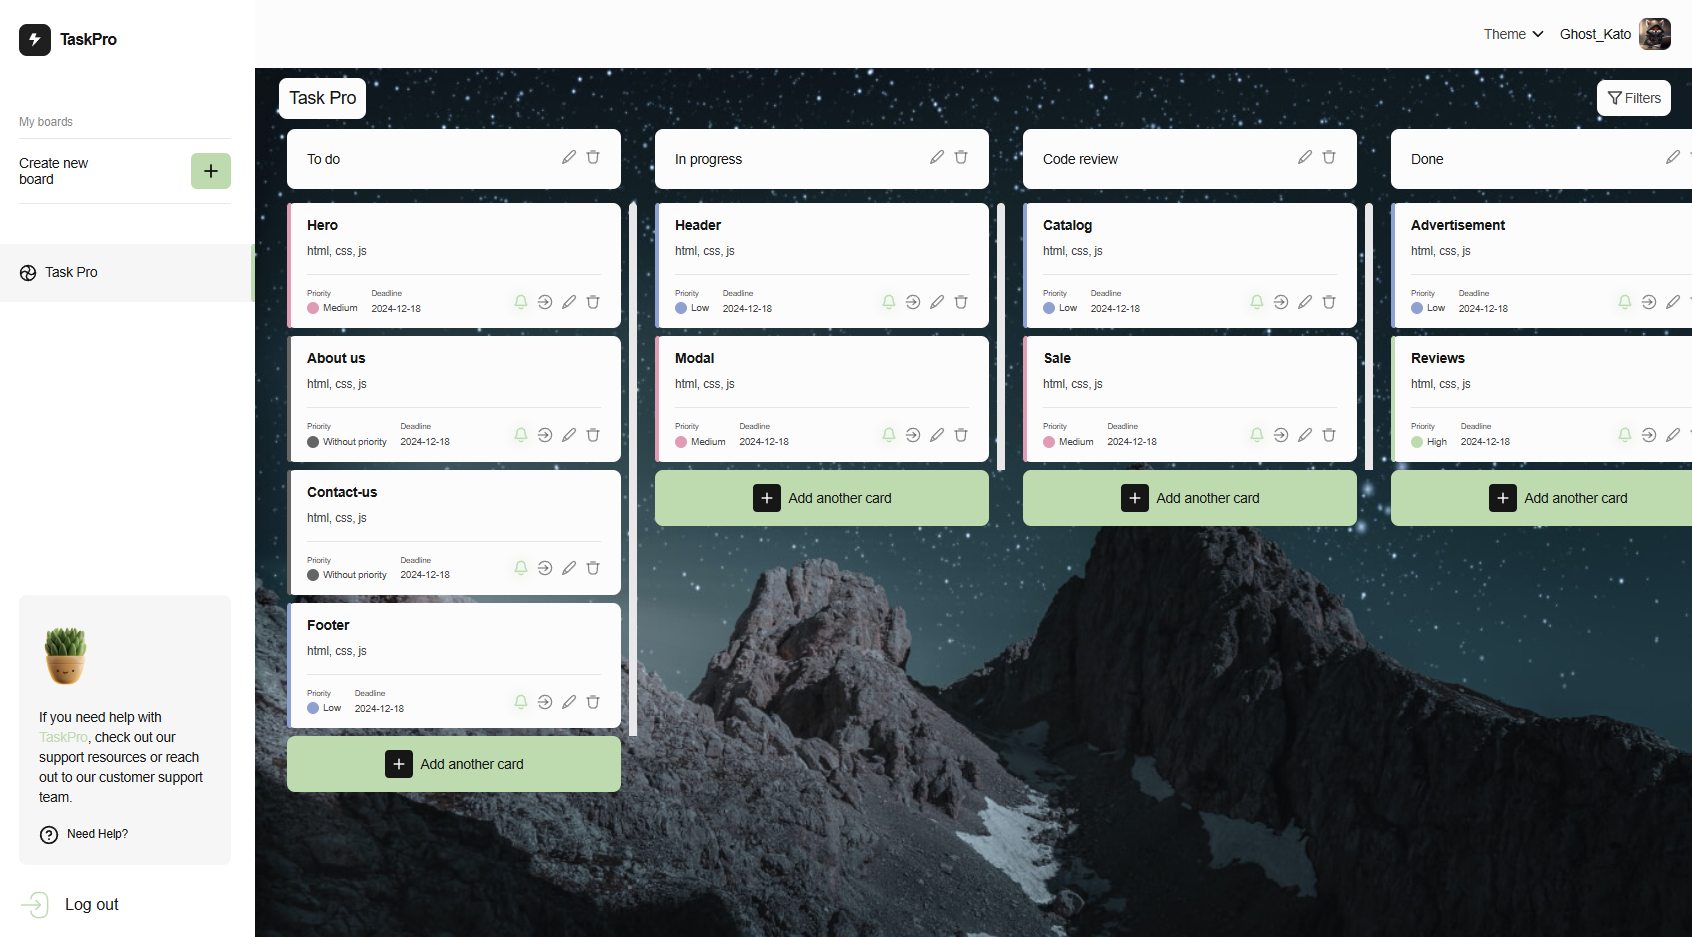
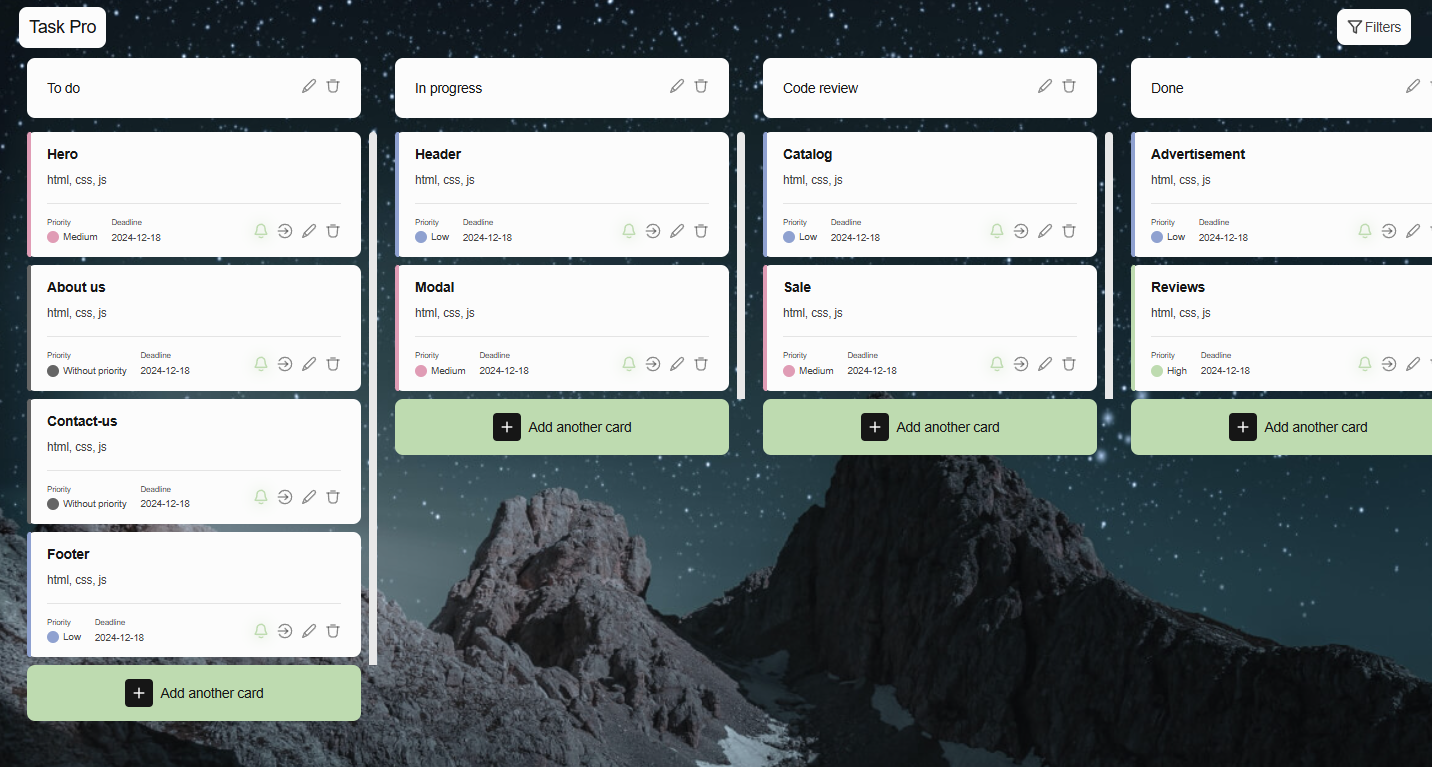
edit

diff --git a/README.md b/README.md
@@ -22,7 +22,7 @@ Task Pro is a web-based task planning application that helps users organize thei
 - Users can customize the look of the boards: choosing a name, icon and background for each board.
 - Easy access to all functions through the navigation bar.
 
-![main-page](./src/images/readme/main-page.png)
+![main-page](./src/images/readme/side-bar.png)
 
 ### 3. Dynamic task management:
 
